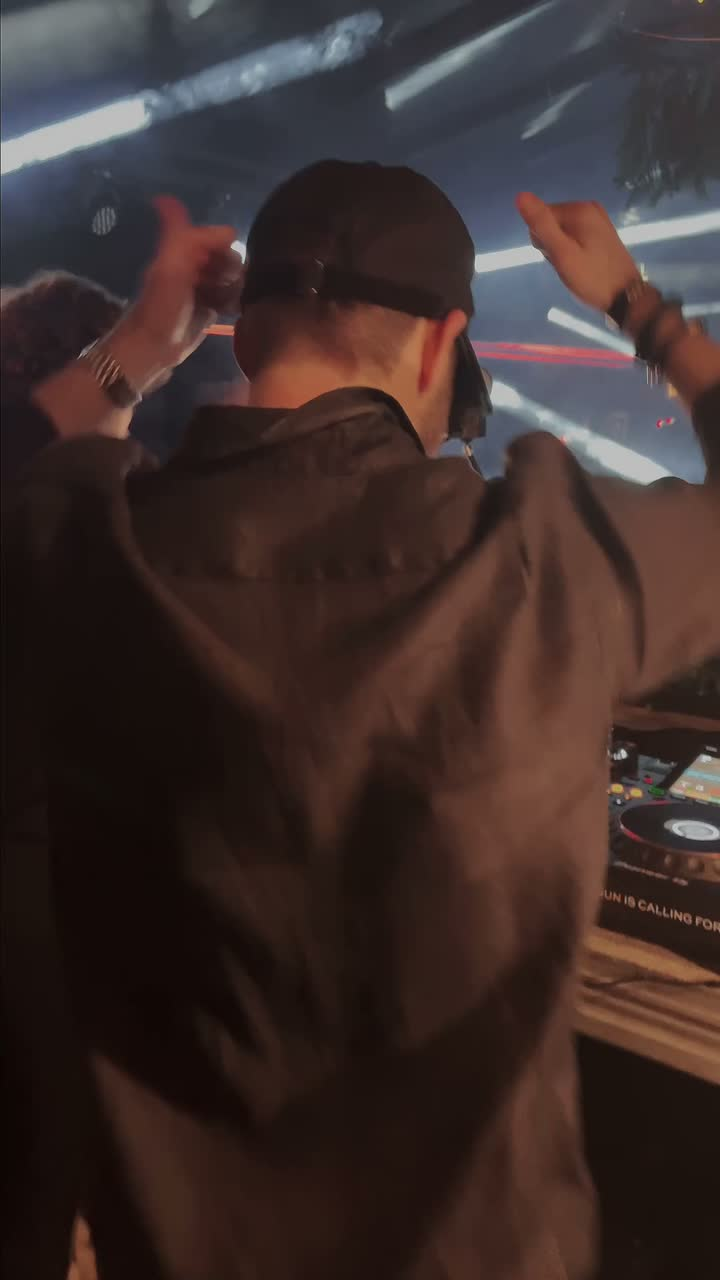
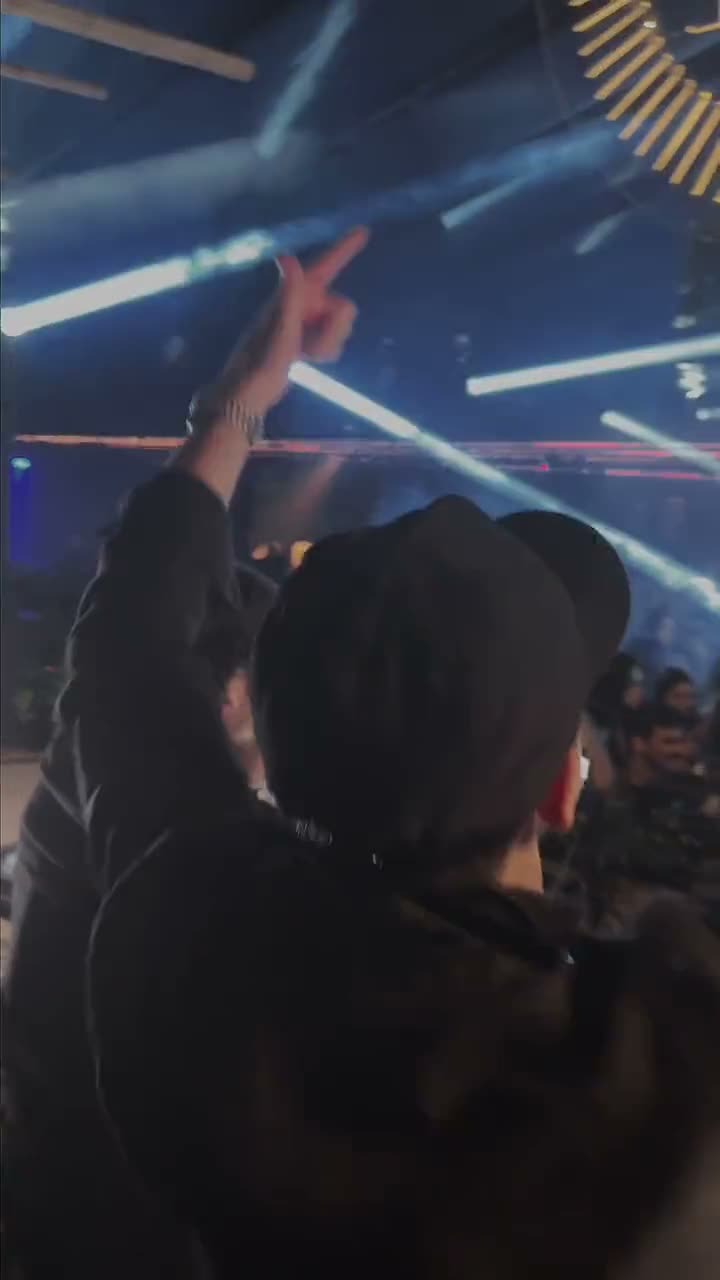
fix(sol): overlay em gradiente e recorte do trecho forte do vídeo
Overlay total (opacity-70 + gradiente pesado) virou gradiente vertical:
topo quase limpo pro vídeo respirar, base densa pro texto ter contraste.
Com o vídeo à mostra, recortei os 5.1s bons (cabine, letreiro na fumaça)
e cortei o efeito de espelhamento e a cena clara do fim.

diff --git a/src/components/Sol.tsx b/src/components/Sol.tsx
@@ -32,7 +32,7 @@ export function Sol() {
       <motion.div style={reduced ? undefined : { scale, y }} className="absolute inset-0">
         <video
           ref={videoRef}
-          className="h-full w-full object-cover opacity-70"
+          className="h-full w-full object-cover"
           src="/media/sol-vertical.mp4"
           poster="/media/sol-poster.jpg"
           muted
@@ -42,7 +42,14 @@ export function Sol() {
           aria-hidden
         />
       </motion.div>
-      <div className="absolute inset-0 bg-gradient-to-t from-breu via-breu/25 to-breu/60" />
+      {/* escurece só onde o texto vive; no topo o vídeo aparece limpo */}
+      <div
+        className="absolute inset-0"
+        style={{
+          background:
+            "linear-gradient(to top, rgba(5,6,10,0.96) 0%, rgba(5,6,10,0.88) 14%, rgba(5,6,10,0.58) 32%, rgba(5,6,10,0.24) 52%, rgba(5,6,10,0.06) 74%, rgba(5,6,10,0.16) 100%)",
+        }}
+      />
       <div className="absolute bottom-[10vh] left-6 max-w-lg md:left-[8vw]">
         <p className="text-[11px] uppercase tracking-[0.4em] text-ambar">
           Sol da Meia Noite · Vista Joá